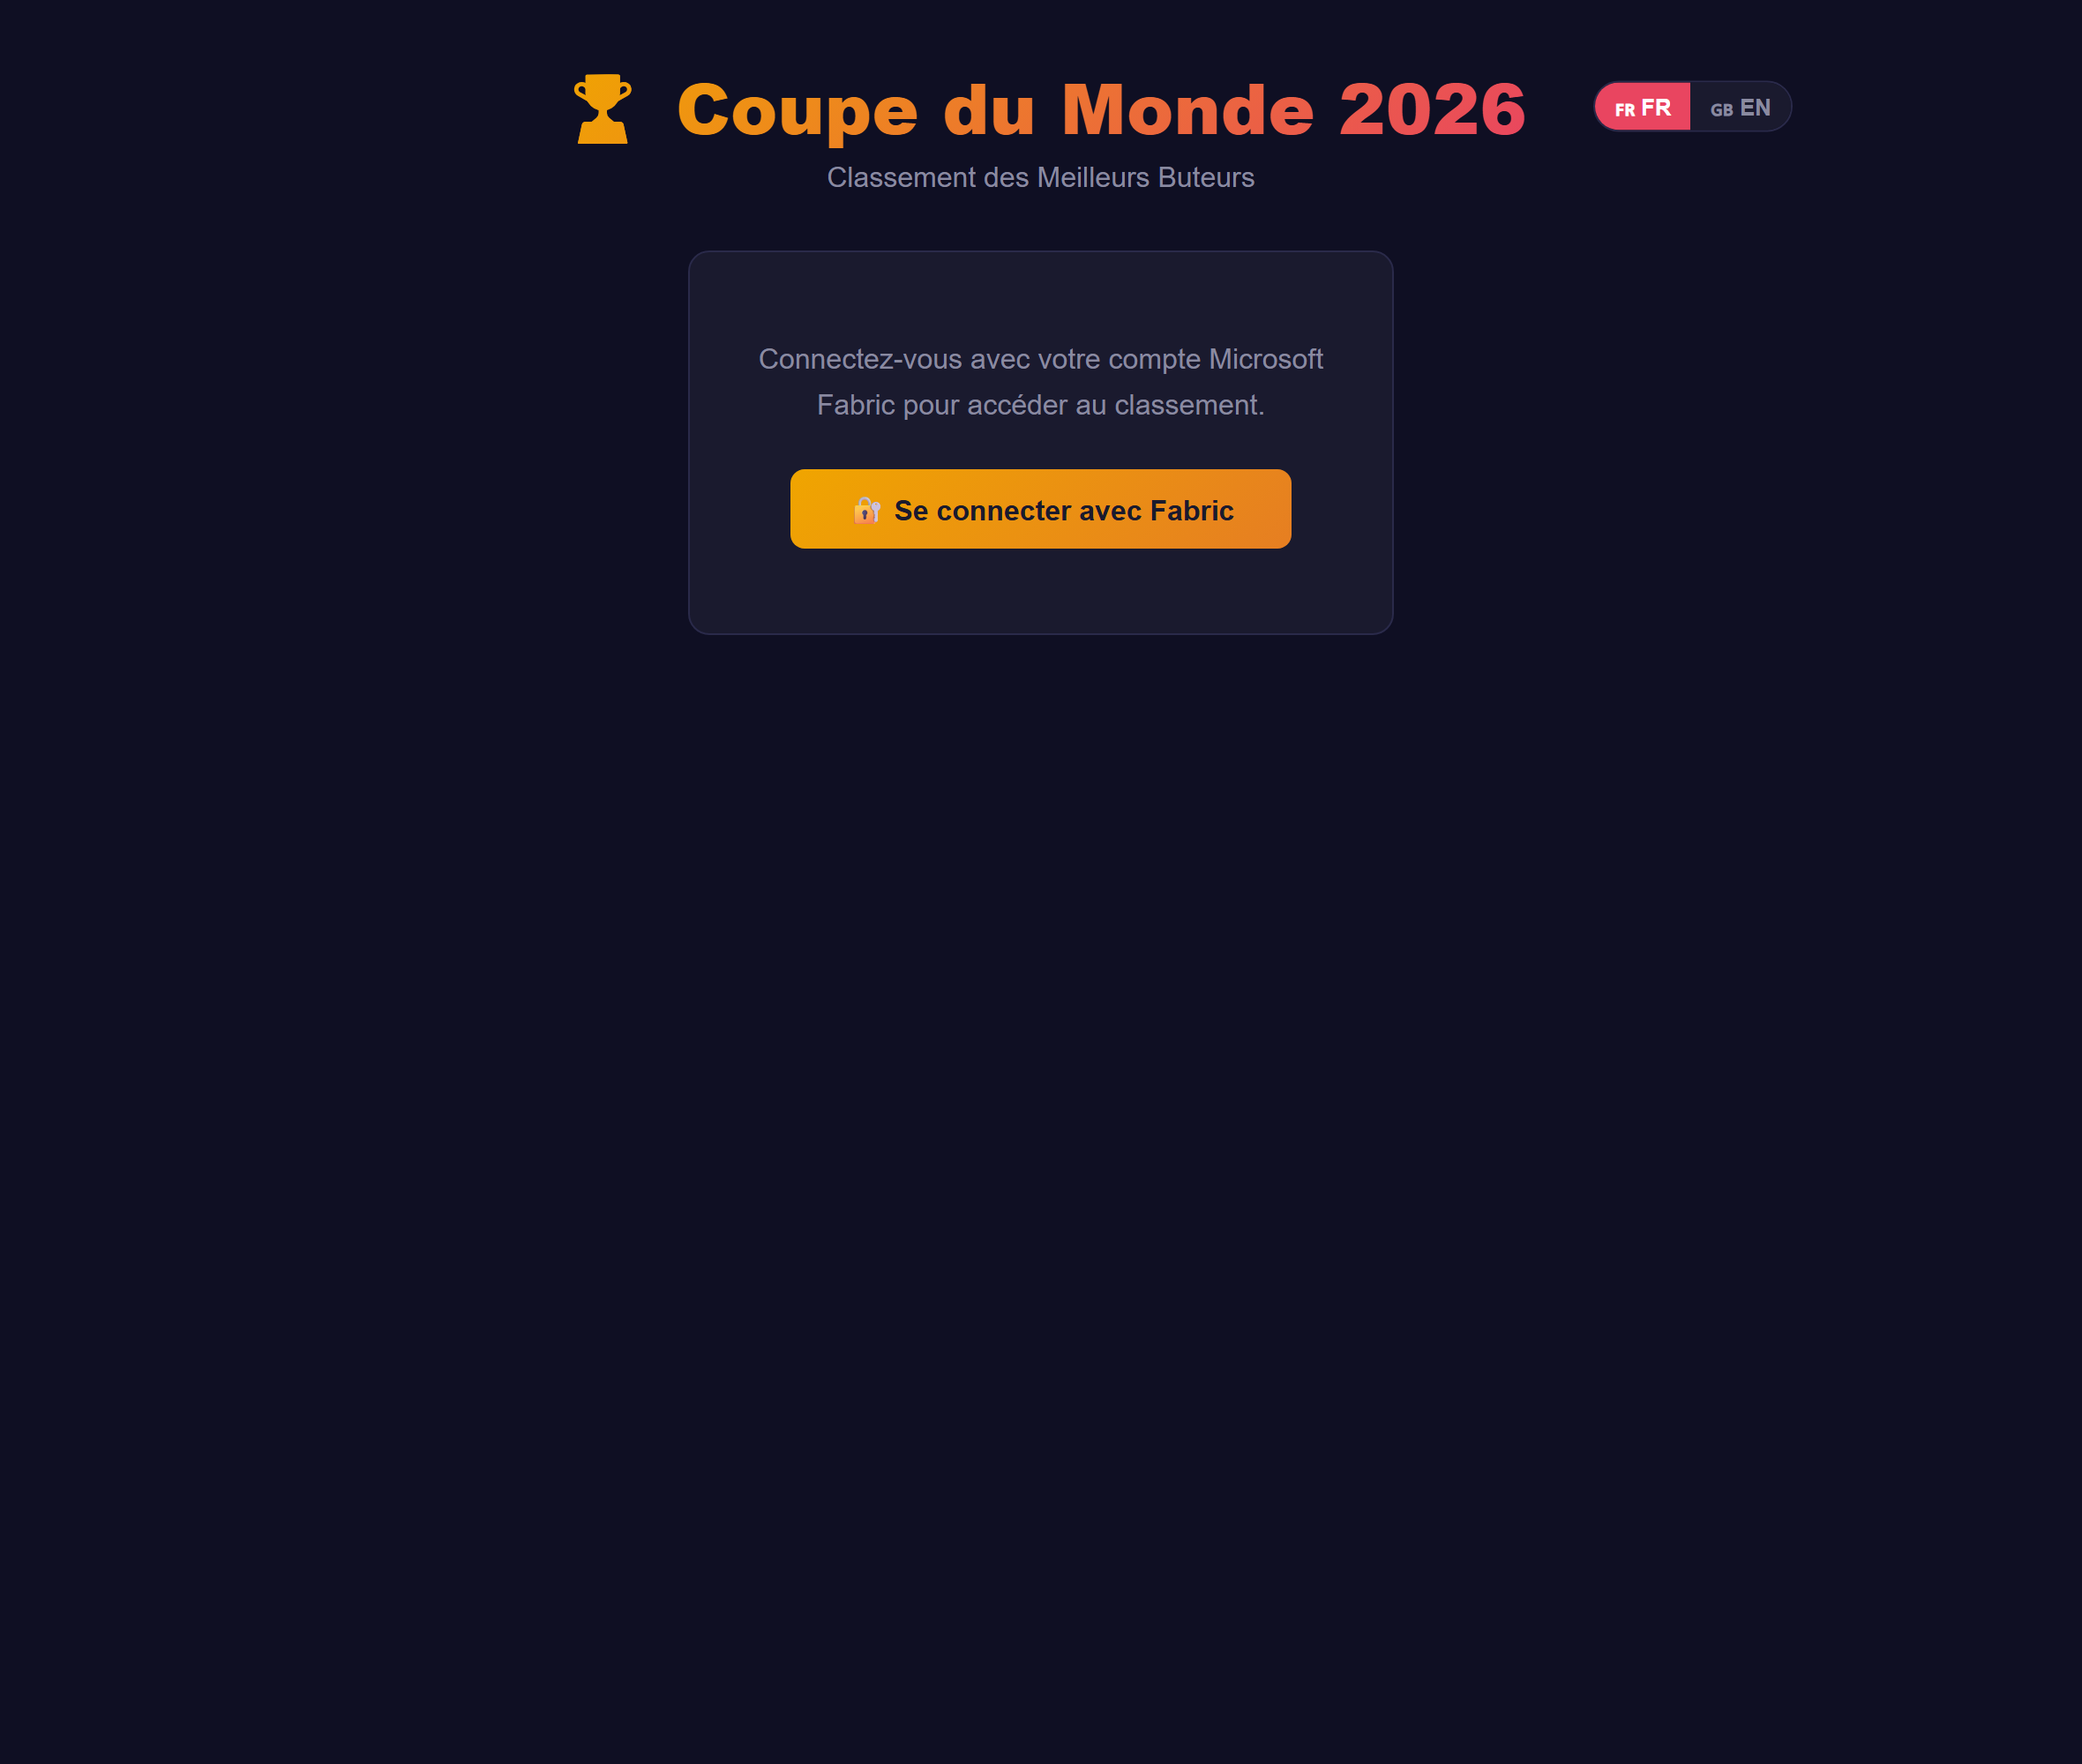
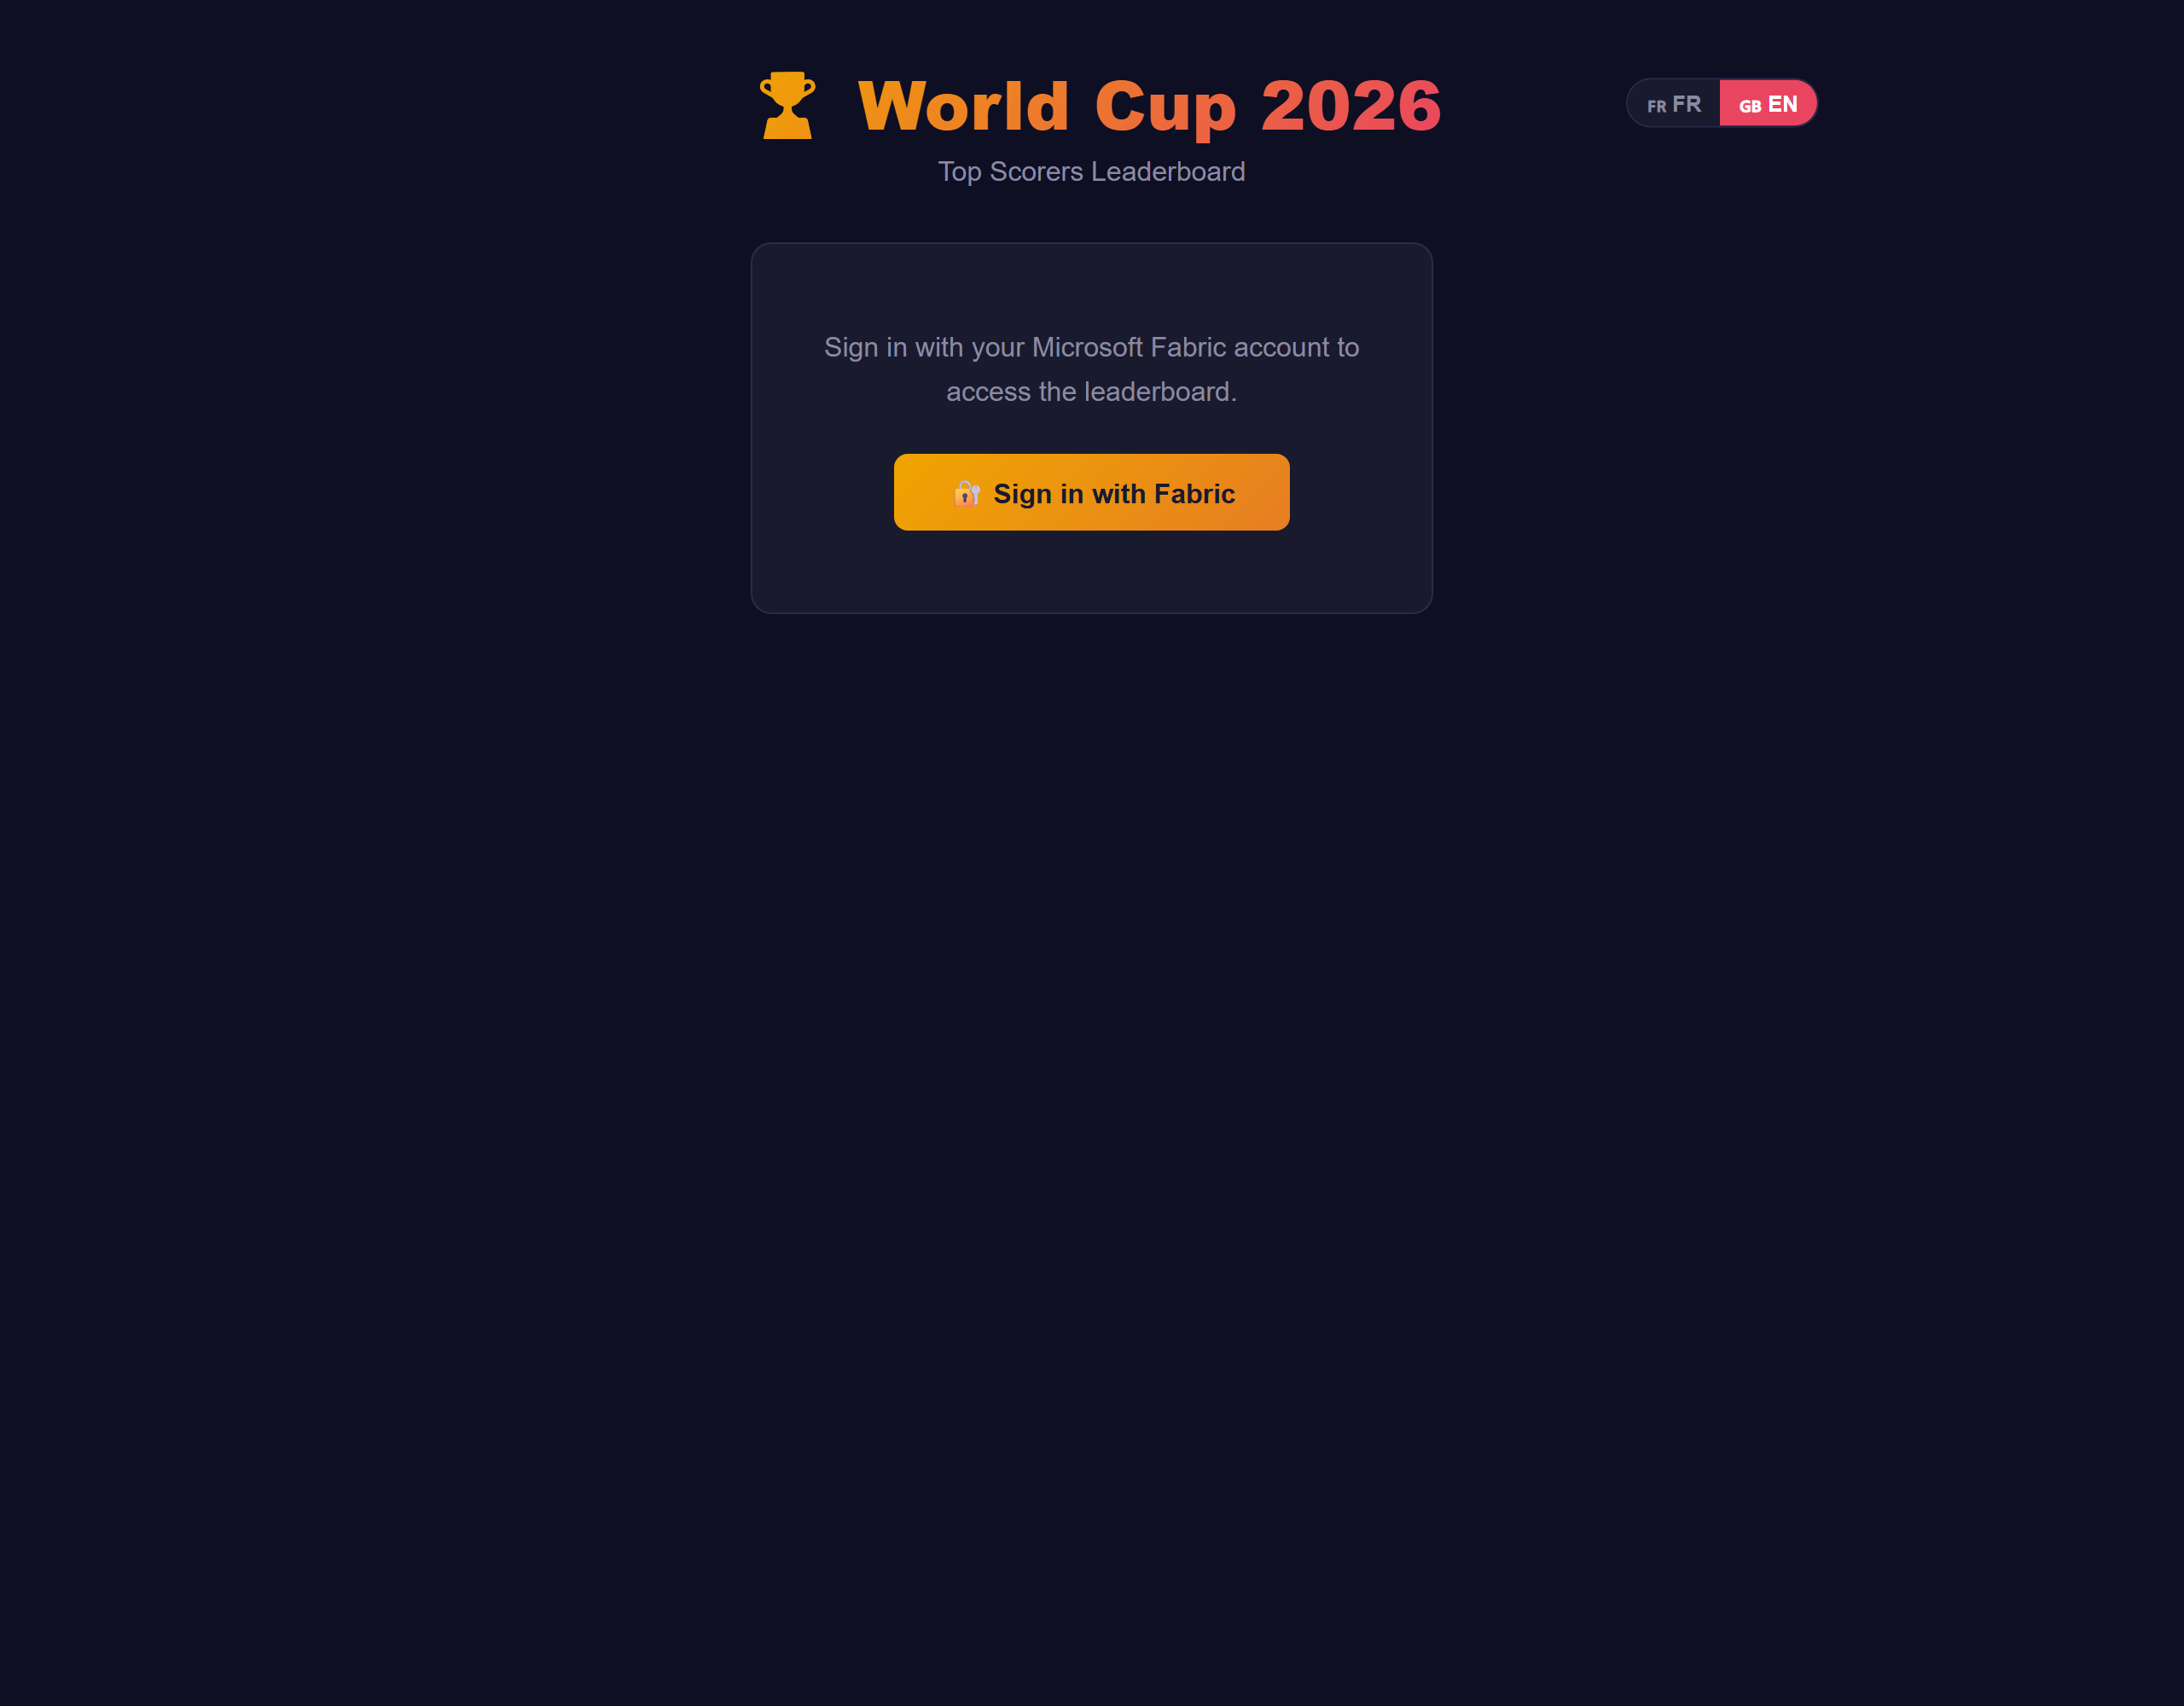
docs: large screenshot with votes + leaderboard; prompts section in English
- Replace small thumbnails with a single large app screenshot showing the
  favourites/voting panel and the Votes column alongside the leaderboard.
- Translate the example prompts section to English.

Changed region(s): [[0.2784, 0.031, 0.8352, 0.124], [0.3712, 0.186, 0.6496, 0.31]]

diff --git a/README.md b/README.md
@@ -10,13 +10,9 @@ Rayfin provides the **database, authentication (Fabric SSO) and hosting** in a s
 
 ## Preview
 
-| Leaderboard (FR) | Leaderboard (EN) |
-|---|---|
-| ![Leaderboard FR](docs/screenshots/leaderboard-fr.png) | ![Leaderboard EN](docs/screenshots/leaderboard-en.png) |
+![World Cup Top Scorer — leaderboard, votes and favourites](docs/screenshots/app-en.png)
 
-| Sign-in (Fabric SSO) |
-|---|
-| ![Sign-in](docs/screenshots/login.png) |
+<sub>Live leaderboard with the favourites / voting panel and the **Votes** column · bilingual FR / EN · all-time tab.</sub>
 
 ## Architecture
 
@@ -28,15 +24,15 @@ Rayfin provides the **database, authentication (Fabric SSO) and hosting** in a s
 
 This whole app was built conversationally on **Rayfin** — from idea to a deployed Fabric app — starting with a single prompt:
 
-> 💬 *« je veux créer une rayfin sur un nouveau workspace sur le theme de la coupe du monde par exemple qui sera meilleur buteur »*
+> 💬 *"I want to create a Rayfin app in a new workspace on the theme of the World Cup — say, who will be the top scorer."*
 
 …then refined with a few follow-up prompts:
 
-- *« tu peux me rajouter les données avec coupe du monde 2026 et me permettre d'ajouter mon favoris avec mon nom »*
-- *« tu peux m'ajouter vignette images des top scorer »*
-- *« je veux les top buteurs que sur 2026 et une section top buteur tt coupe du monde confondu ; dans les favoris on voit qui est le favori et le nom de la personne qui a voté »*
-- *« un pipeline Fabric qui met à jour les stats des matchs dans ma base SQL »*
-- *« ajoute un bouton FR / EN et traduis la doc en anglais »*
+- *"Add the World Cup 2026 data and let me add my favourite with my name."*
+- *"Add thumbnail images of the top scorers."*
+- *"I only want the 2026 top scorers plus an all-time top-scorers section; in the favourites, show who the favourite is and the name of the person who voted."*
+- *"Build a Fabric pipeline that updates the match stats in my SQL database."*
+- *"Add an FR / EN button and translate the docs to English."*
 
 No infrastructure was provisioned by hand: Rayfin scaffolded the SQL database, Fabric SSO and hosting, and a Fabric pipeline keeps the stats fresh.
 

diff --git a/docs/ARCHITECTURE.md b/docs/ARCHITECTURE.md
@@ -36,9 +36,11 @@ flowchart LR
 
 ## App preview
 
-| Sign-in (Fabric SSO) | Leaderboard (FR) | Leaderboard (EN) |
-|---|---|---|
-| ![Sign-in](screenshots/login.png) | ![Leaderboard FR](screenshots/leaderboard-fr.png) | ![Leaderboard EN](screenshots/leaderboard-en.png) |
+![World Cup Top Scorer — leaderboard, votes and favourites](screenshots/app-en.png)
+
+| Sign-in (Fabric SSO) | Leaderboard (FR) |
+|---|---|
+| ![Sign-in](screenshots/login.png) | ![Leaderboard FR](screenshots/app-fr.png) |
 
 ## The two planes
 